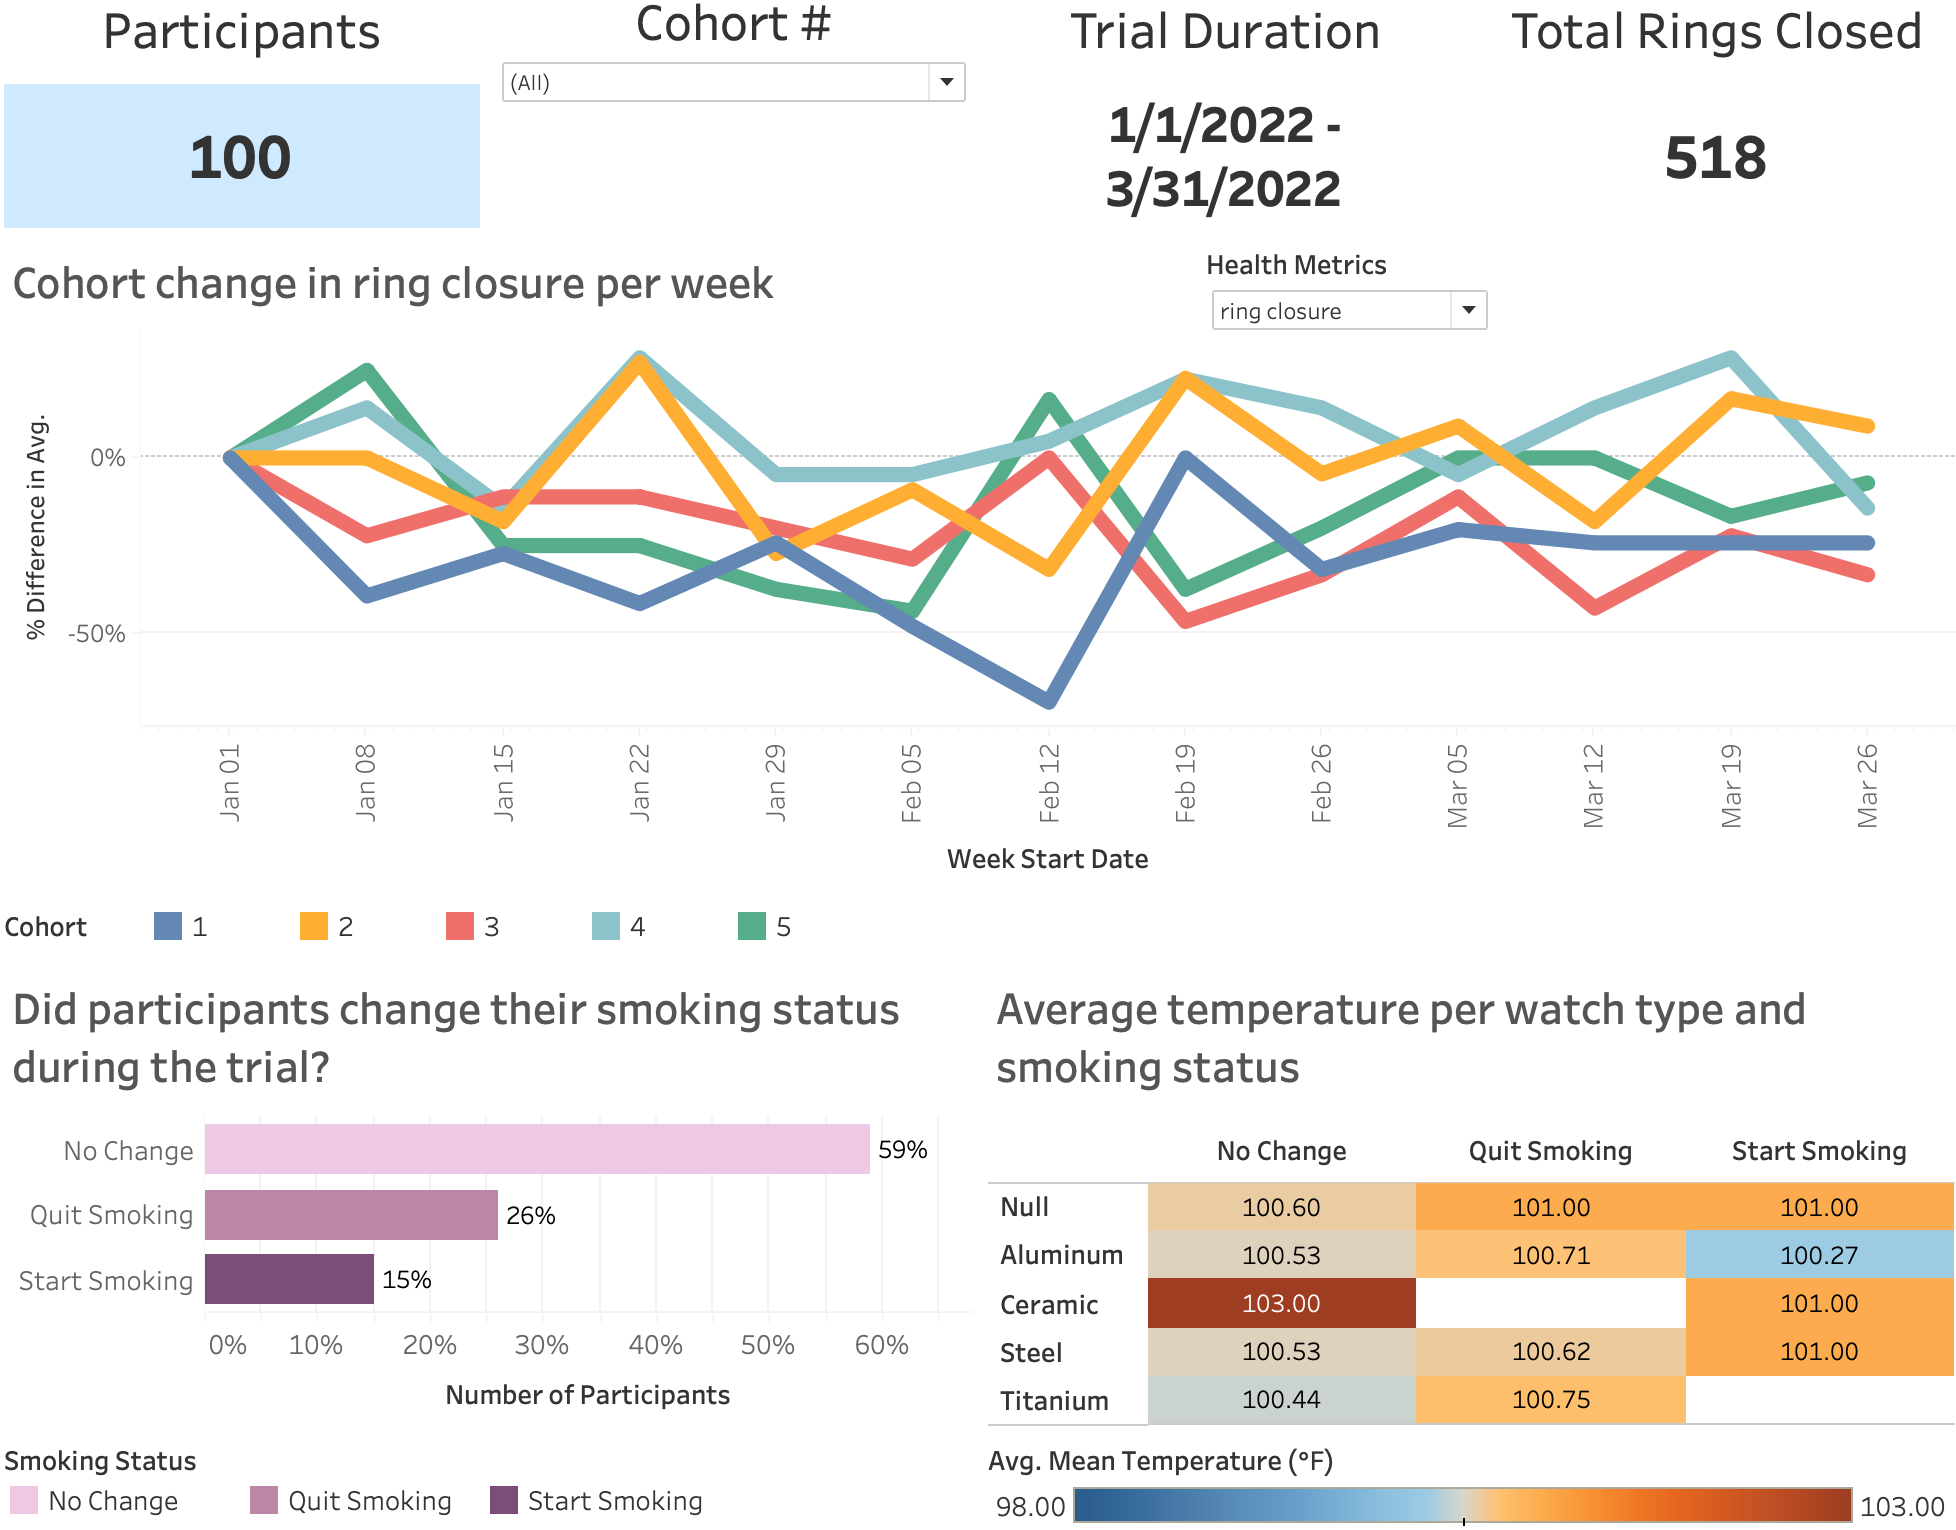
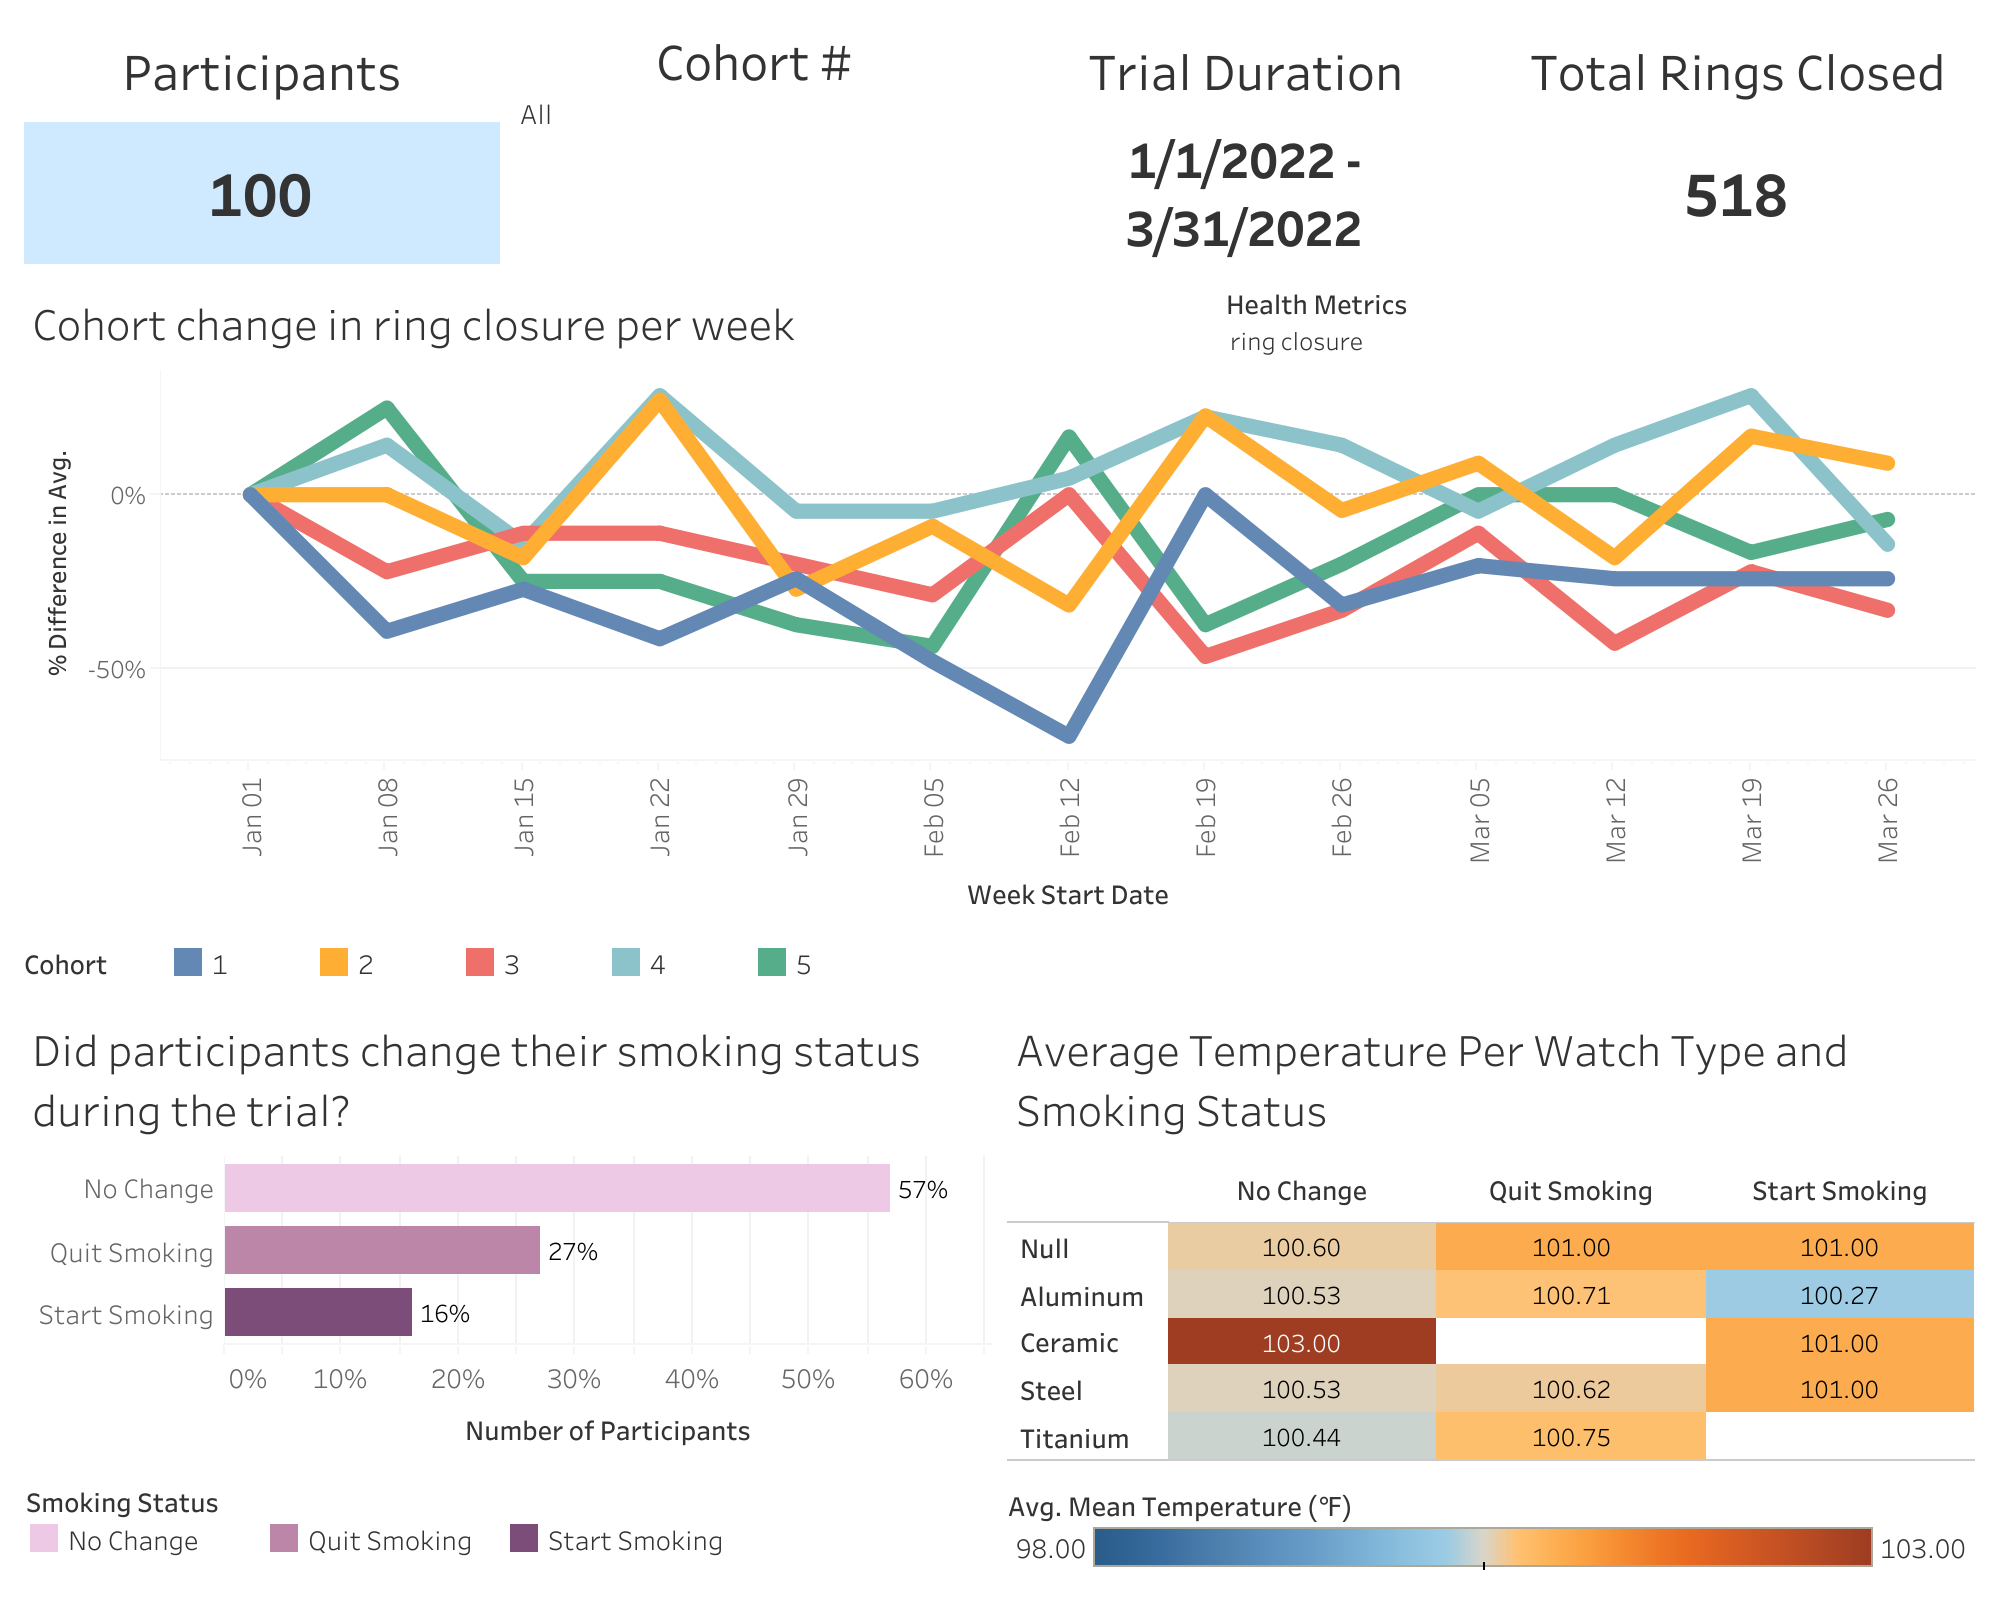
Fix LOD expression

diff --git a/README.md b/README.md
@@ -49,7 +49,7 @@ Key features of the analysis include:
 
 - **Weekly Cohort Trends**: The main line chart tracks the percent difference in average health metrics, such as "ring closure," across five different cohorts over the course of the trial.
 
-- **Smoking Status Dynamics**: A dedicated bar chart reveals participant behavior changes, showing that while 59% of participants maintained their smoking status, 26% quit and 15% started smoking during the study.
+- **Smoking Status Dynamics**: A dedicated bar chart reveals participant behavior changes, showing that while 57% of participants maintained their smoking status, 27% quit and 16% started smoking during the study.
 
 - **Body Temperature Analysis**: The heatmap investigates potential relationships between average body temperature (ranging from 98.00°F to 103.00°F), smoking status changes, and Apple Watch hardware types, such as Aluminum, Ceramic, Steel, and Titanium.
 